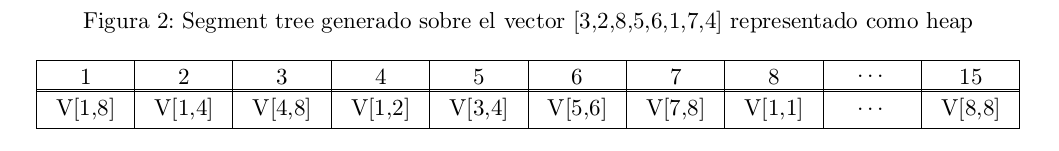
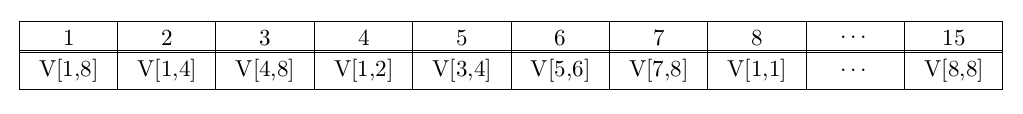
Adds new images

diff --git a/_drafts/2015-8-9-segment-tree.md b/_drafts/2015-8-9-segment-tree.md
@@ -96,11 +96,11 @@ Veremos que para que la eficiencia de las dos operaciones soportadas por el segm
 
 Los subintervalos preprocesados se almacenan en nodos. Estos pueden ver como un árbol binario. Cada nodo que no sea una hoja tiene un hijo izquierda y un hijo derecha que se corresponden con dividir el subintervalo del nodo en dos. La Imagen 1 muestra el árbol resultante para el ejemplo $$V = [3,2,8,5,6,1,7,4]$$.
 
-![](https://raw.githubusercontent.com/dgiim/blog/gh-pages/images/segment_trees/segment_trees_visualiacion.png)
+![](https://raw.githubusercontent.com/dgiim/blog/post-segment-trees/images/segment_trees/segment_trees_visualizacion.png)
 
 Nótese que el árbol binario es completo. Por tanto, podemos almacenarlo en memoria de forma análoga a un heap [^heap]. Esto es, embebemos el árbol en un vector mediante un recorrido por niveles como sucede en la Imagen 2.
 
-![](https://raw.githubusercontent.com/dgiim/blog/gh-pages/images/segment_trees/segment_trees_heap.png)
+![](https://raw.githubusercontent.com/dgiim/blog/post-segment-trees/images/segment_trees/segment_trees_heap.png)
 
 
 
